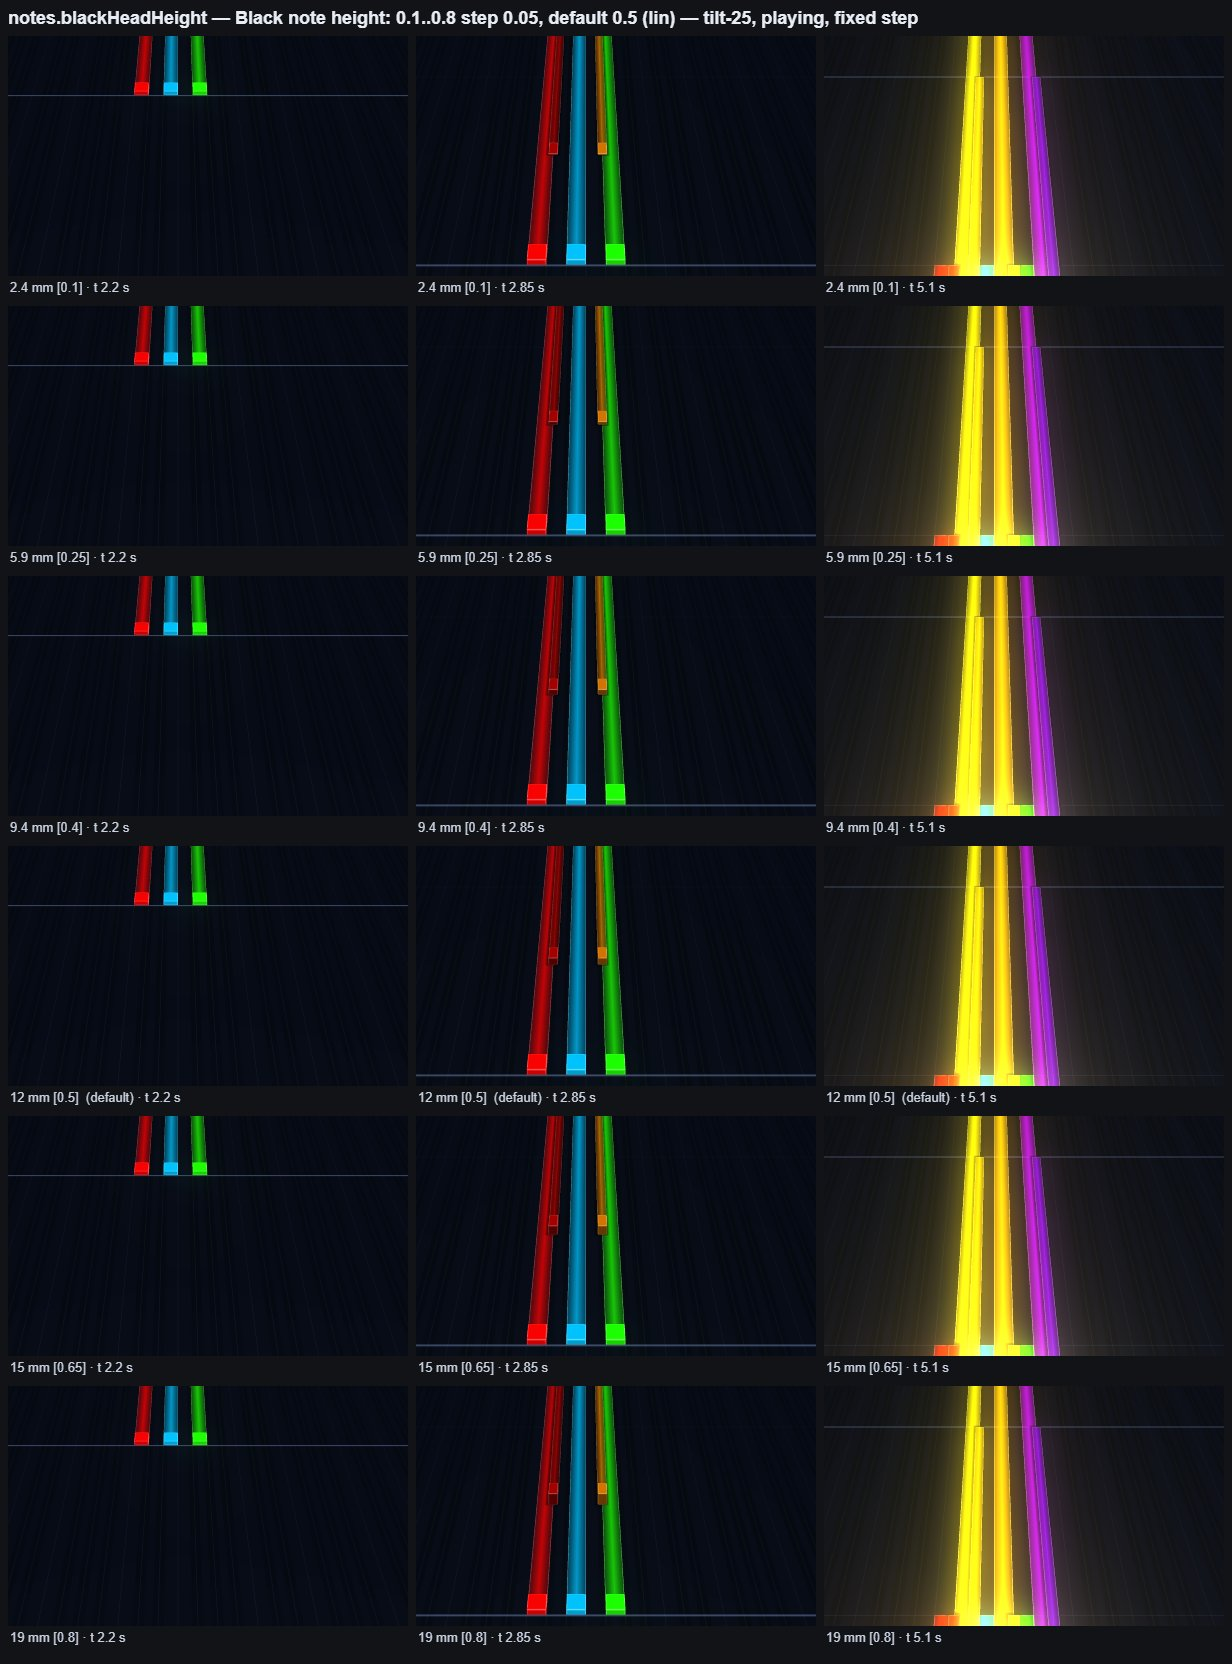
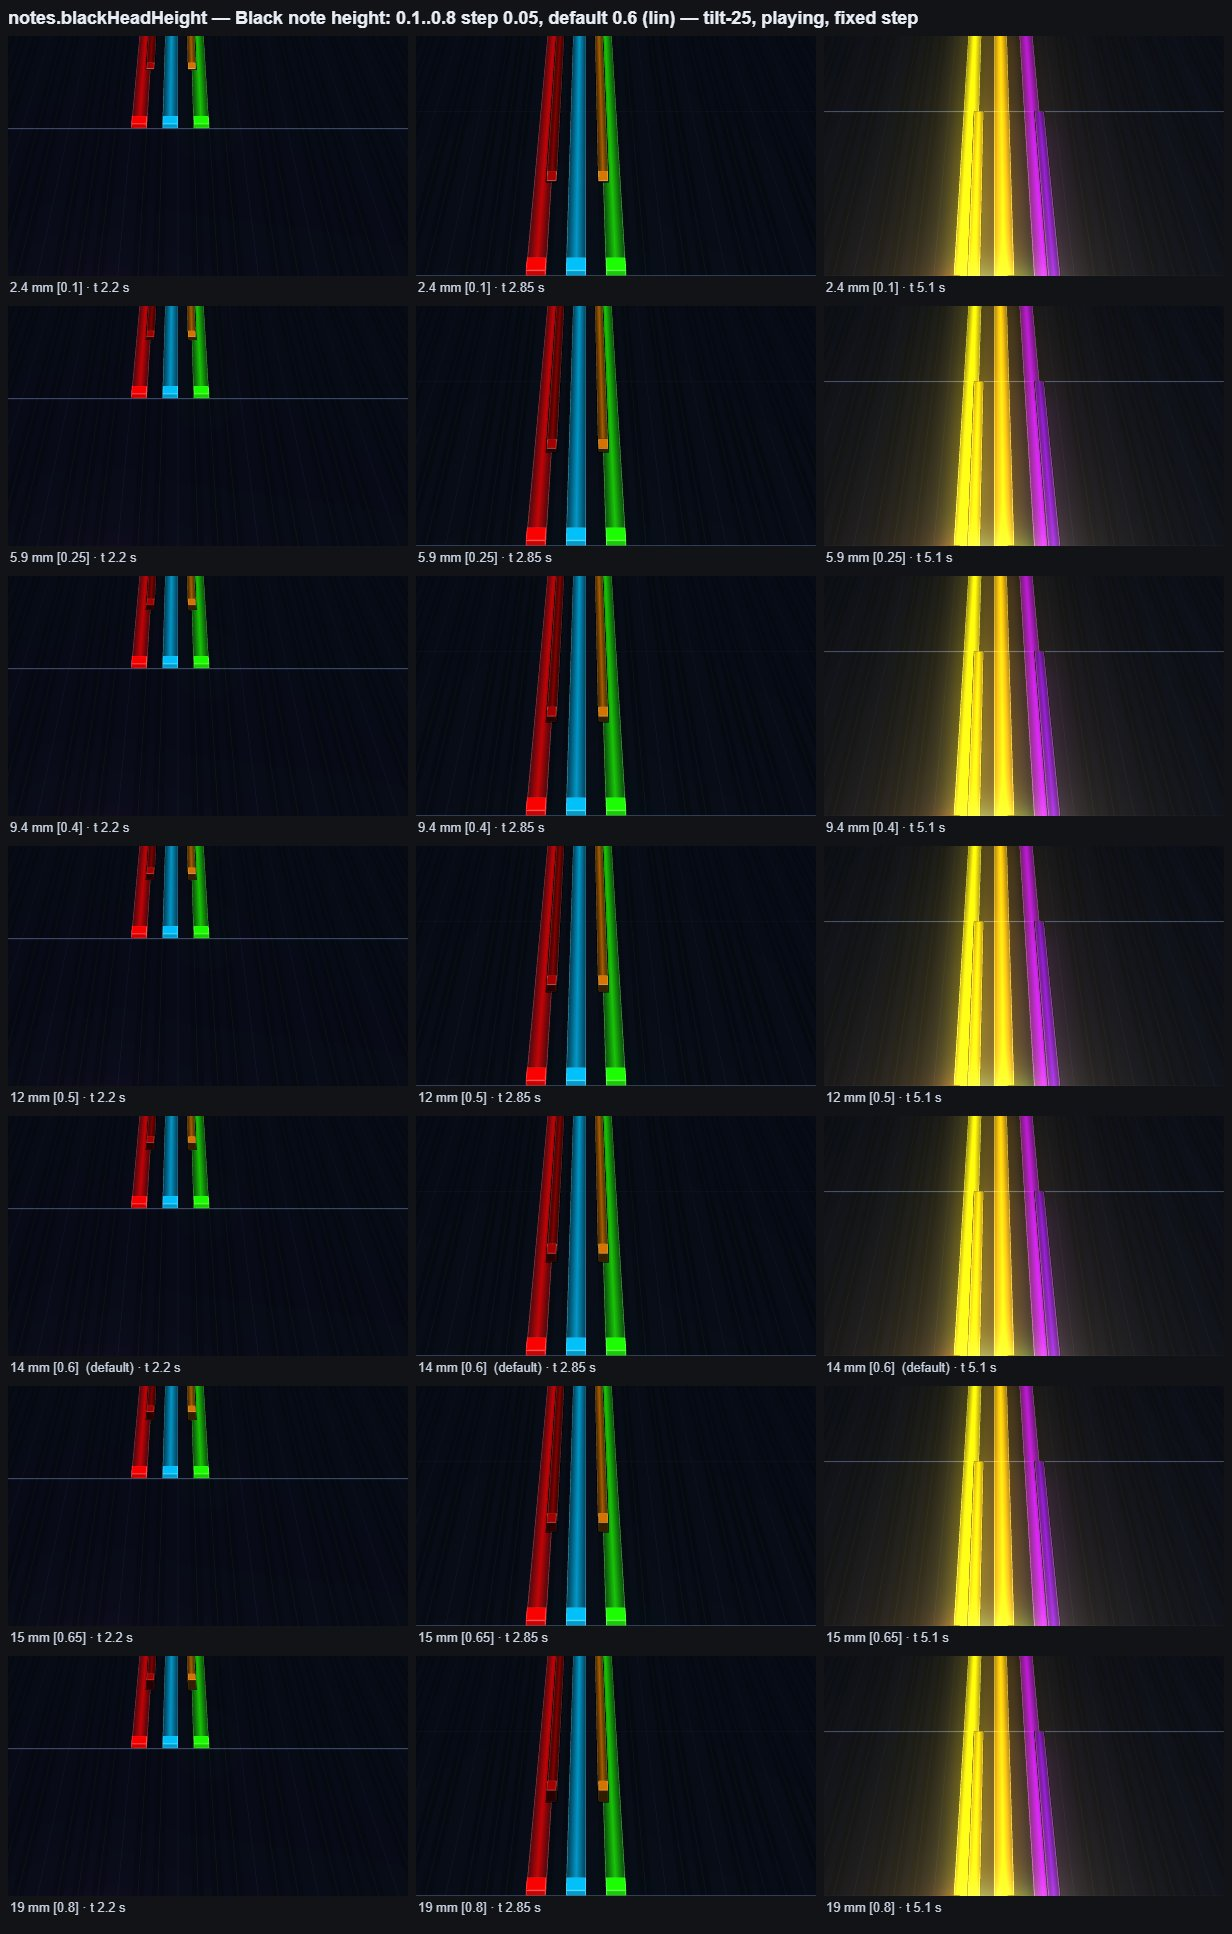
docs: 9.2 report round 2 (A, D, E, depth and label fixes, draw calls) and final sheets

diff --git a/docs/reports/feat-m9-2-practice-clarity.md b/docs/reports/feat-m9-2-practice-clarity.md
@@ -103,3 +103,149 @@ The alternatives are removing it (black side shading and the draw order already 
 - Turn on Raised black sustains: a low ridge replaces the flat black sustain; it hides with 3D heads off.
 - Reload with old settings that had a manual lift: no lift, your old head height is now the white height.
 - A saved look from 9.1 still applies, with its head height as the white height.
+
+## Round 2 — 2026-11-23: B reworked, A, D, E built; depth and label fixes; stop for review
+
+### What was done
+
+**B, round-1 review answers**
+
+- **Black note outline** replaces the contact shadow.
+  - Keys: `notes.contactShadow` → `notes.blackOutline`, `notes.shadowStrength` → `notes.blackOutlineStrength`. The v9 migration carries the switch over, and the strength only where it was changed from the old 45%, so the new 80% default applies otherwise.
+  - The rim is now the same width on every side of the note (0.08, solid with a short soft edge), with no offset.
+  - It shows as a thin dark line along black notes from 25° and 45°, and as an even outline from 85°.
+  - Sheets: `notes.blackOutlineStrength.tilt-25/45/85.jpg`.
+- **Ridges:** opaque, darker sides under a sustain-transparent top. The one-alpha variant and the `?ridgeSides` seam are gone.
+  - The ridge height cap is now 0.35. In the 5.1 s release frames, releases still don't read late at 0.35, so I kept it.
+- **New defaults:**
+  - Black side shading 70%.
+  - Black note height 0.6 (white stays 0.35).
+  - Camera tilt 35° and look-ahead 10 beats, on desktop and tablet. Every built-in look pins them, Classic and Fireworks included (Fireworks loses its extra look-ahead).
+- **Depth fix** (your Toccata screenshot): black heads behind a nearer white head were drawn on top of it.
+  - Every head and ridge is now depth-tested and writes depth, white and black alike.
+  - Black notes win only where they share a surface with a white note (overlapping sustains, a chord's front faces). They do it by their 0.002 lift plus a `polygonOffset` bias, with the depth test on. The black sustains and the outline are depth-tested too, and the glow twins copy the bias.
+  - Sheet: `occlusion.jpg`. A3 and B3 have A♯3 a 32nd later, just behind and taller, drawn in Two-tone so the colours differ, at 25°, 35°, 45° and 85°, at default and tall heights. The nearer white heads cover the black head's base. The black sustain still wins over the white sustains. There is no z-fighting.
+  - Toccata isn't bundled (it's your upload), so the case was added to the Black notes demo instead.
+- **Label fix** (Toccata bar 51): note-name labels now draw in an overlay the render pipeline draws last.
+  - They come after the notes, the bloom mix and anti-aliasing, straight onto the frame with no depth test or write.
+  - Within each lane colour they are drawn far to near.
+  - The label glow twin has the same depth state.
+  - Avoid overlaps, stack slots and placement are unchanged.
+  - `occlusion.jpg`, bottom row: the label sits whole over the heads at 25° and 35°.
+  - Key-top labels aren't affected. They lie on their own keys, nothing is drawn in front of them, and they keep their depth test.
+
+**A. Loop visibility** (sidebar section **Loop**, after Highway; all look keys, pinned in Classic and the base)
+
+| Setting              | Default     | Range                                |
+| -------------------- | ----------- | ------------------------------------ |
+| Dim outside the loop | on          |                                      |
+| Dim strength         | 60%         | 0–95%, step 5                        |
+| After the loop end   | Next repeat | Next repeat / Song continues         |
+| Loop boundary lines  | on          |                                      |
+| Colour               | Secondary   | white / primary / secondary / custom |
+| Width                | 0.14        | 0.02–0.3, log                        |
+| Glow                 | 1           | 0–3, log with a 0 stop               |
+
+- **Dim** happens in the shaders, by song tick (`loopDim` in `TIME_GLSL`). Only [loop start, loop end) is left undimmed; the pre-roll is dimmed both live and in the repeat (answer 2, spec amended).
+  - Heads fade toward the highway colour. Sustains, ridges, the outline, lanes, bar and beat lines, borders, octave lines, cages and labels fade by alpha and glow.
+  - The keyboard, the now line and the now-line effects are never dimmed.
+- **Next repeat** (`LoopRepeat`): copies of each repeated layer share its geometry and material.
+  - Copy k draws with the playhead moved back k periods and clipped to one iteration (`uClipLo/uClipHi`, set in `onBeforeRender` and put back after). Nothing is duplicated on the CPU, per frame or ever.
+  - The song itself is cut at the loop end.
+  - Repeated layers: note layers, outline, labels, pedal cage, stencil masks, bar and beat lines, and their glow twins.
+  - Static lanes and borders map highway ticks back to song ticks (`loopSongTick`) so they dim correctly.
+  - The repeat shows only while the playhead is inside the iteration (count-in included); outside it, the song shows dimmed.
+- **Boundary lines** (`LoopLines`) use the highway lines' coverage and glow, under the notes, never dimmed. The end line glows 1.5× (fixed). Each repeat seam gets its own start and end line.
+  - The first defaults (width 0.06, glow 0.6) were too faint on the sheet, so I raised them to 0.14 and 1.
+- **Timing:** `loopWindowFor` uses the same count-in as the transport (`preRollWindowFor`; `Transport.windowFor` now calls it too). The repeat lands exactly where the playhead will be after each wrap. `PlayerView` passes the window to the engine in the same tick as the jump to the loop start.
+- **Sheets:** `loop.off.jpg` and `loop.medium.jpg`.
+  - Rows: a short loop (bar 3, 2 beats of pre-roll) seen from inside it, and a long loop (bars 2–5) near its end.
+  - Columns: Next repeat, Song continues, dim 0, dim 95%, no boundary lines.
+
+**A.5 — draw calls per frame** (all passes; `docs/design/m9-2/draw-calls.json`, long demo, 1280×720):
+
+| Case                                | Off | Medium |
+| ----------------------------------- | --: | -----: |
+| No loop                             |  22 |     41 |
+| No loop, look-ahead 32              |  22 |     41 |
+| Long loop (bars 2–5), near its end  |  34 |     58 |
+| Short loop (bar 3, pre-roll 2)      |  45 |     73 |
+| One-bar loop, look-ahead 32 (worst) | 155 |    223 |
+
+Each repeat adds about 11 draws at Off and 15 at Medium, and only while it's on screen. The worst case is a one-bar loop at the maximum look-ahead, which needs 12 repeats. If that is too much for the tablet pass (milestone 11), the fallback in the plan is one instanced draw per layer of the loop's notes, rebuilt only when the loop changes.
+
+**D. Open Home when a new session starts** (Appearance → Start)
+
+- **Settings:**
+  - "Open Home when a new session starts" (on).
+  - "New session after": 10 / 20 / 30 / 60 min, default 30. It replaces the fixed 10-minute gap everywhere: the recorder, `sessionize`, headline stats, highlights and profile summaries.
+- **One rule:** `isNewSession(lastPlaybackEnd, now, gap)`.
+  - `shouldOpenHome` opens Home at most once per session per profile (the last auto-open is stored), and never for a profile that has never played (see the decisions below).
+  - Checked on load, on refocus (`visibilitychange` and window `focus`), and by an idle timer for the rest of the gap, re-armed when playback starts or ends.
+- **Never interrupts:** not while playing, with a bookmark draft open (Bookmark manager), or in the loop editor. A blocked check still counts as handled.
+  - The picker, settings window, tempo and loop popovers and the shortcuts sheet close first.
+- **Tracking suspended:** `stats.trackingSuspended`, which nothing turns on yet.
+  - The recorder ends a stretch under way and then records nothing (no sessions, time or plays). It keeps following loads and setup, so tracking resumes with the right song.
+  - The Home timer pauses. Unit-tested. Roadmap 9.5 notes it.
+- **Stored or derived?** Both.
+  - The recorder stores a `Session` row per session and a `sessionId` on each play record. It already continued the stored last session after a reload, within the gap.
+  - Every number the app shows (session counts, average session, Welcome highlights, profile summaries) is recomputed from the play log with `sessionize` and the current gap.
+  - So the new 30-minute default changes how past sessions are counted on screen: sessions 10–30 minutes apart now merge. The stored `sessionId`s keep the grouping they were recorded with, but nothing displays them.
+
+**E. Change song and the Library open on the current song**
+
+- **Picker:** the current song is highlighted and the loaded bookmark selected (else Full song). Both are scrolled into view, whatever the sort. Focus stays in the search field (answer 12). The search is still cleared on open (answer 11).
+- **Library:** the current song is selected, centred and the song list focused, whatever the sort and grouping.
+  - When a search or filter hides it: "Current song is hidden by the filter · Show". Show clears what hides it and reveals the song.
+  - The Library's details panel doesn't list bookmarks, so there is no "current bookmark" to select there.
+
+### Decisions not in the instructions
+
+- **Home never opens for a profile that has never played.** There's no "last playback" to start a new session from, and Start on already decides a first run.
+  - This also keeps fresh e2e profiles on the player.
+  - The shared e2e storage turns the setting off, because many tests seed sessions from days ago and Home would open over the page under test. `homeOnNewSession.spec` turns it back on.
+- **The loop editor counts as work in progress** (it has no separate unsaved state). Home waits while it's open.
+- **Labels draw over the finished frame,** after vignette and AA too, not just after the glow, so neither bloom nor vignette dims them.
+- **Loop line defaults raised to width 0.14 and glow 1,** from the sheet.
+- **The 9.1 design images in `docs/design/m9-1/` are left as they are.** They record the 9.1 decisions, and some show settings that no longer exist. A fresh `all-looks.jpg` at the new camera is in `docs/design/m9-2/`.
+
+### Visual baselines and the camera
+
+The visual-review shots, the all-looks sheet and every 9.2 sheet were regenerated after the default camera moved to 35° and 10 beats. **Shots taken at the default camera look different because of the camera, not because of a regression.** That covers the player, Welcome backdrop, strip and look shots in `test-results/visual`, and `all-looks.jpg`. The whole visual-review, looks and 9.2 sheet run passed: 161 tests. The black-note range sheets were re-rendered after the depth fix.
+
+### Results
+
+- `npm run check`: type-check, lint, **765 unit tests** pass. `npm run build` passes.
+- **E2e, `chromium` + `polish`, production preview, `--retries=0`:**
+  - **175 passed, 3 failed** before the last fixes. All three failures followed intended 9.2 changes, not load timing:
+    - `listKeys.spec.ts:29`: the Library now opens on the current song (Minuet), not the first row.
+    - `bookmarks.spec.ts:274`: the picker now selects the loaded bookmark, not Full song.
+    - `player.spec.ts:72`: the tilt default is 35°, so +3 is 38°, not 48°.
+  - I updated those tests and re-ran their specs: all pass.
+  - New: `homeOnNewSession.spec` (5), `currentSong.spec` (2), and the polish test "the first frame after a loop change shows it".
+- **Draw calls:** see A.5.
+
+### Known issues and open questions
+
+1. **Draw calls for very short loops at the maximum look-ahead** (223 at Medium). Fine on desktop; to check in the tablet pass.
+2. **The repeat doesn't draw particles.** Effects only happen at the now line, which is always in the live song.
+3. **Label order:** far-to-near holds within the white and within the black labels, not across them (they're two layers).
+4. **Raised black sustains** read clearly only close up from the default camera, even at 0.35.
+
+### Manual review checklist
+
+- **Loop, dim and lines:**
+  - Set a short loop with pre-roll 2 and play.
+  - Beyond the end line you should see the loop's count-in (dimmed), then the loop again (bright), repeated as far as the highway reaches. The seams flow into the now line with no jump at the wrap.
+- **Switch to Song continues:** the song continues beyond the end, dimmed.
+- **Loop changes:** toggle the loop while playing, and seek while paused. There should be no flash. Load a bookmark: same behaviour.
+- **Black notes:**
+  - At 35°, a white chord in front of later black notes: the nearer heads cover the farther ones. Black sustains stay above white sustains.
+  - Turn note names on: labels are never cut by heads.
+- **Home on a new session:**
+  - Set "New session after" to 10 min.
+  - Play, pause, and leave the app idle for 10 minutes: Home opens by itself.
+  - With a bookmark draft open it doesn't, and it doesn't open again on refocus.
+- **Library:**
+  - Search "canon" in the Library, go to the player and back: the hidden-song line shows, and Show reveals Minuet.
+  - Change song (O): the current song and bookmark are selected and in view under every sort, and typing still searches.
